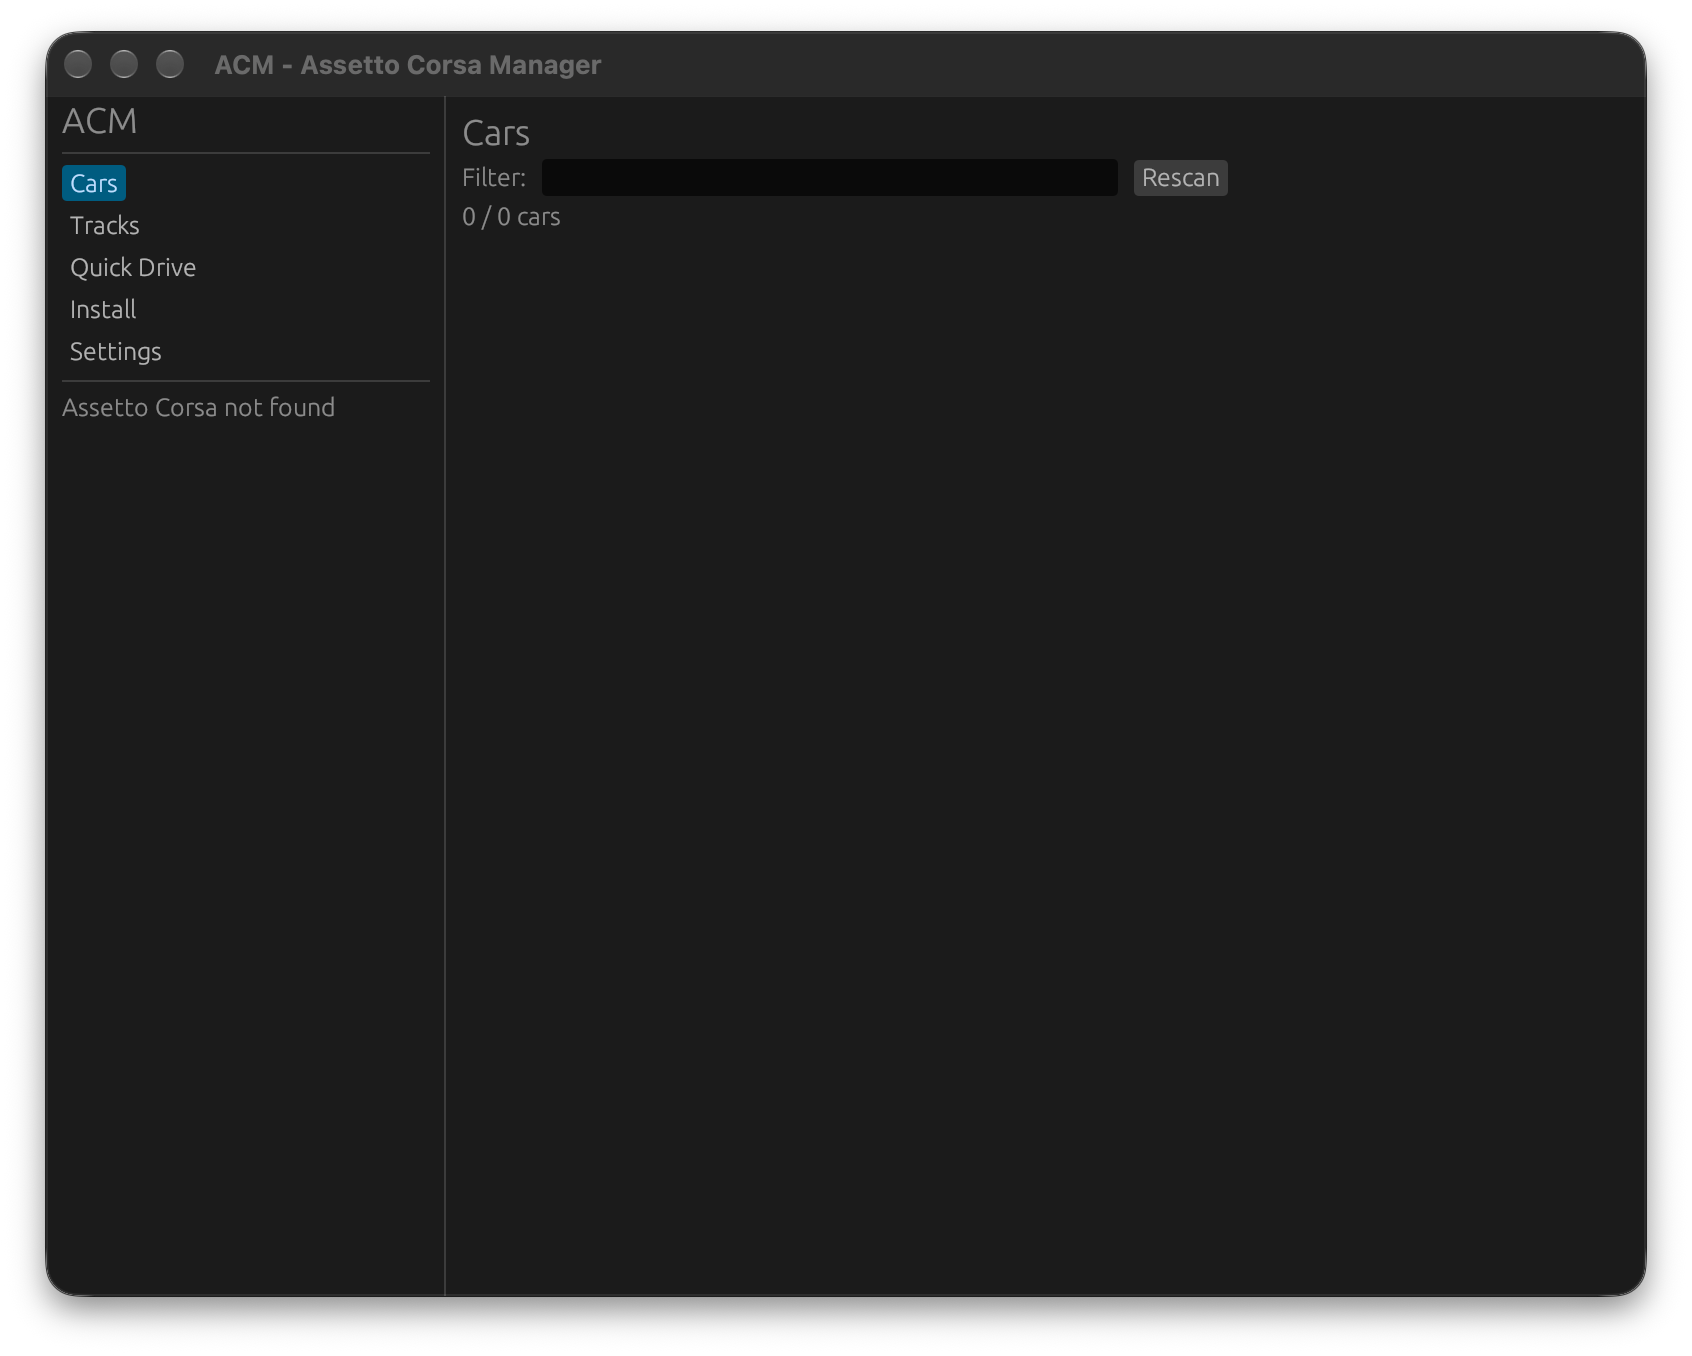
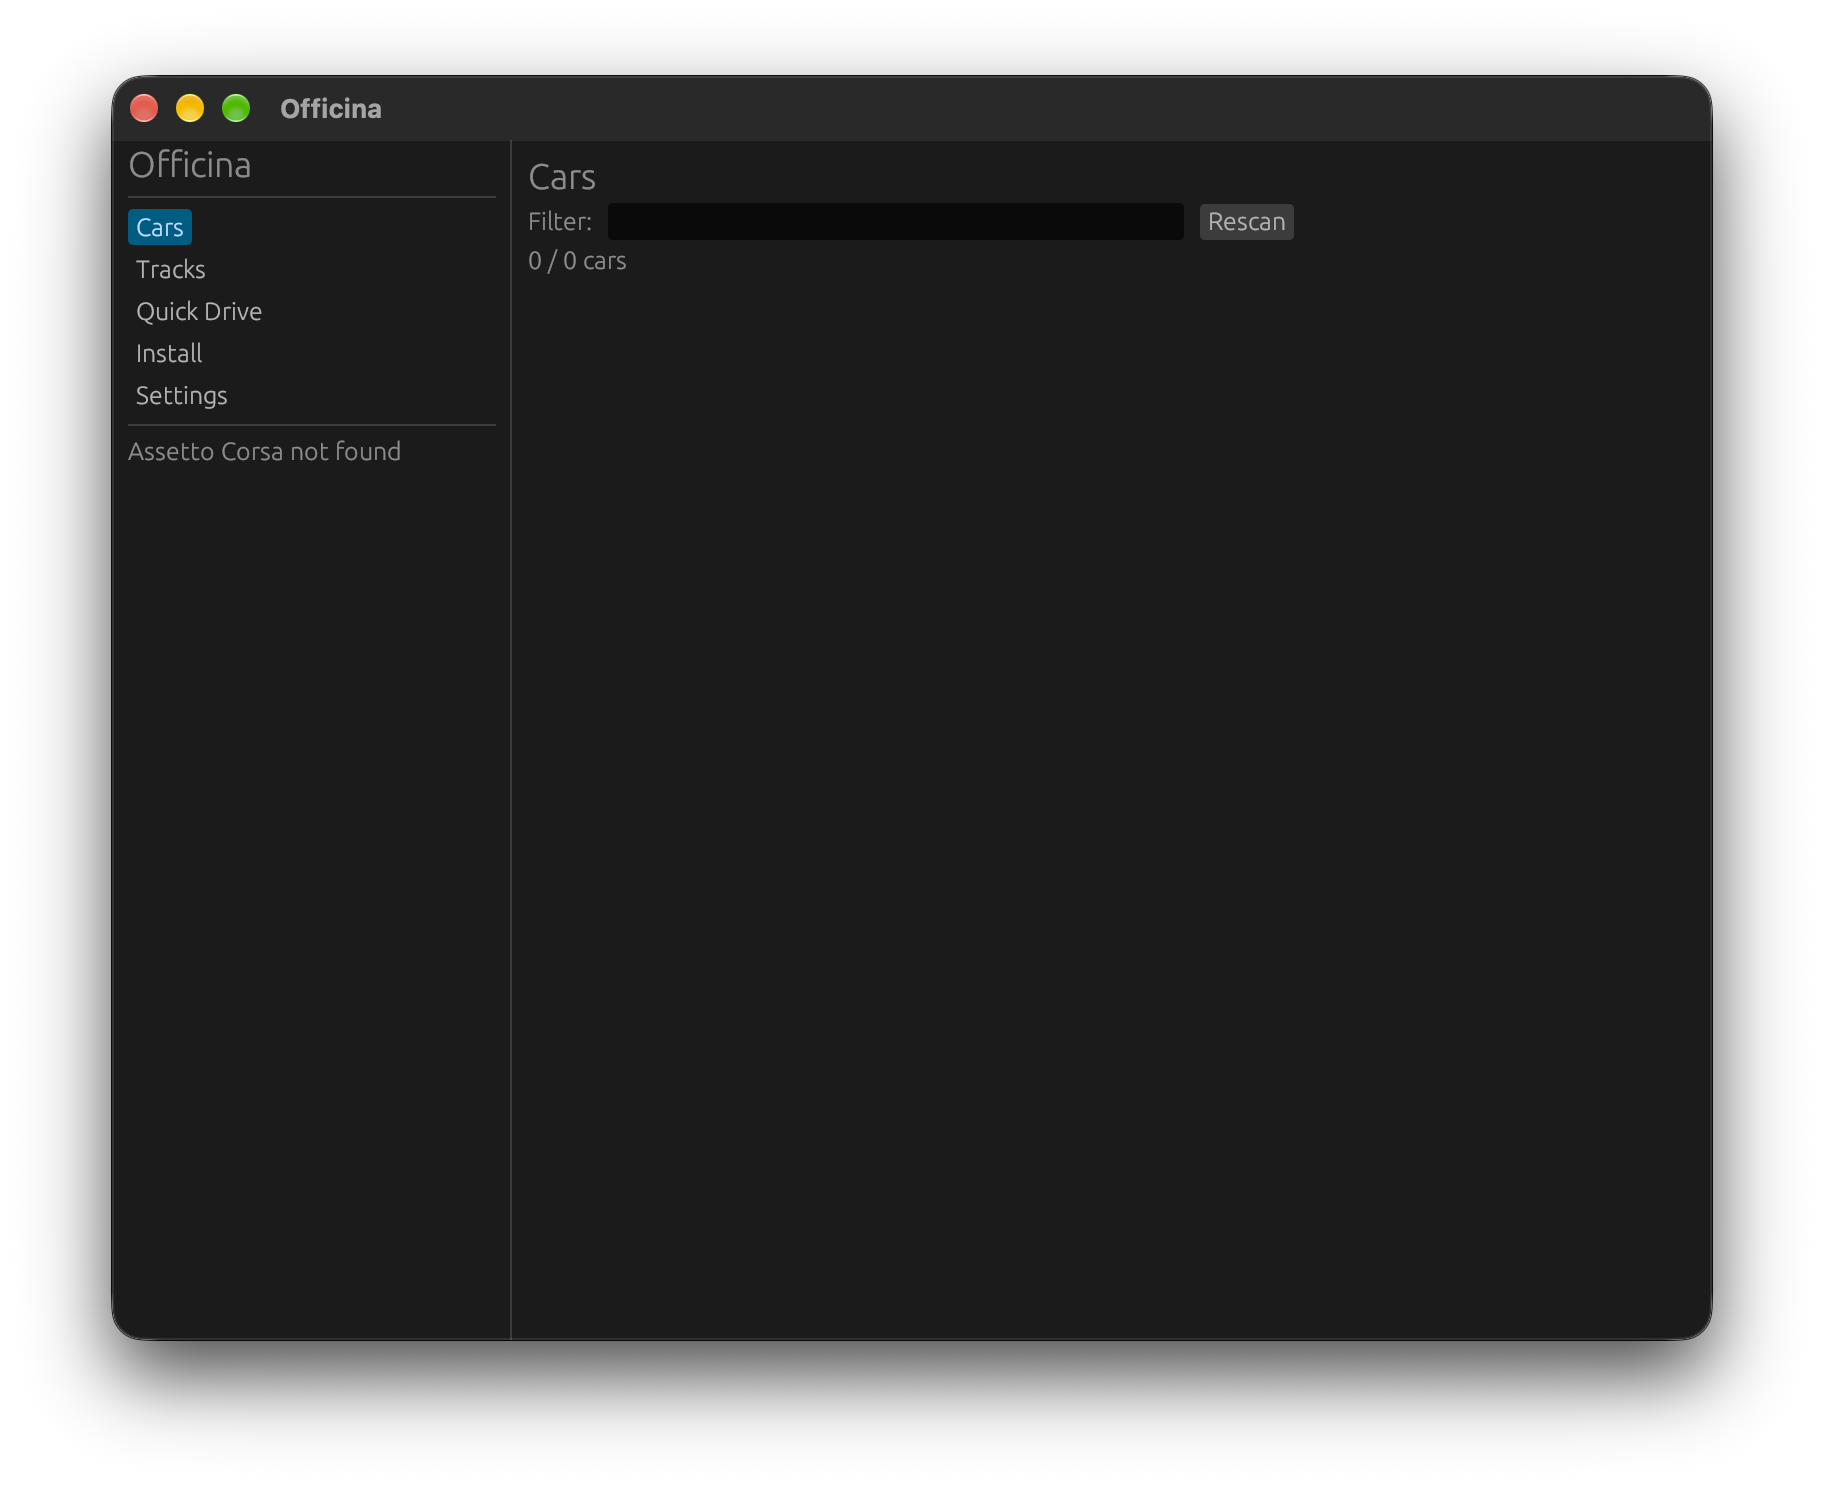
Rename app to Officina
Rename from ACM (Assetto Corsa Mod Manager) to Officina across crates,
binary, CLI command, window title, config/cache paths, and README.
Refresh screenshot to reflect new name.

Changed region(s): [[0.0, 0.0, 0.9835, 0.9912], [0.6454, 0.0929, 0.7376, 0.1858], [0.2766, 0.0929, 0.3381, 0.1858]]

diff --git a/crates/officina-app/src/state.rs b/crates/officina-app/src/state.rs
@@ -1,7 +1,7 @@
 use std::path::PathBuf;
 use std::sync::mpsc;
 
-use ac_core::{content, install, settings::Settings};
+use officina_core::{content, install, settings::Settings};
 
 #[derive(Debug, Clone)]
 pub enum AppMsg {
@@ -119,12 +119,12 @@ impl AppState {
             s.qd_ambient = qd.conditions.ambient_c;
             s.qd_weather = qd.conditions.weather_id.clone();
             s.qd_time_mult = qd.conditions.time_multiplier;
-            if let ac_core::race::Mode::Practice { minutes } = qd.mode {
+            if let officina_core::race::Mode::Practice { minutes } = qd.mode {
                 s.qd_mode = 0;
                 s.qd_minutes = minutes;
-            } else if matches!(qd.mode, ac_core::race::Mode::Hotlap) {
+            } else if matches!(qd.mode, officina_core::race::Mode::Hotlap) {
                 s.qd_mode = 1;
-            } else if let ac_core::race::Mode::Race { laps, .. } = qd.mode {
+            } else if let officina_core::race::Mode::Race { laps, .. } = qd.mode {
                 s.qd_mode = 2;
                 s.qd_laps = laps;
             }

diff --git a/crates/officina-app/src/app.rs b/crates/officina-app/src/app.rs
@@ -39,7 +39,7 @@ impl eframe::App for App {
                             }
                         }
                         if self.state.qd_track.is_empty() {
-                            let entries = ac_core::content::track_entries(&self.state.tracks);
+                            let entries = officina_core::content::track_entries(&self.state.tracks);
                             if let Some(e) = entries.first() {
                                 self.state.qd_track = e.track_id.clone();
                                 self.state.qd_layout = e.layout.layout_id.clone();
@@ -67,7 +67,7 @@ impl eframe::App for App {
         }
 
         egui::SidePanel::left("nav").show(ctx, |ui| {
-            ui.heading("ACM");
+            ui.heading("Officina");
             ui.separator();
             for (label, nav) in [
                 ("Cars", Nav::Cars),

diff --git a/crates/officina-app/src/views/settings.rs b/crates/officina-app/src/views/settings.rs
@@ -21,7 +21,7 @@ pub fn show(state: &mut AppState, ui: &mut Ui) {
         }
     });
     let root = state.settings.ac_root().map(|p| p.display().to_string()).unwrap_or_else(|| "<not found>".into());
-    let compat = state.settings.ac_root().and_then(|r| ac_core::paths::compat_data_dir(&r)).map(|p| p.display().to_string()).unwrap_or_else(|| "<none>".into());
+    let compat = state.settings.ac_root().and_then(|r| officina_core::paths::compat_data_dir(&r)).map(|p| p.display().to_string()).unwrap_or_else(|| "<none>".into());
     ui.label(format!("Resolved AC root: {root}"));
     ui.label(format!("Compatdata: {compat}"));
     if ui.button("Rescan content").clicked() {

diff --git a/crates/officina-app/src/main.rs b/crates/officina-app/src/main.rs
@@ -9,7 +9,7 @@ mod state;
 mod views;
 
 #[derive(Parser)]
-#[command(name = "acm", version, about = "Assetto Corsa mod manager & launcher (Linux)")]
+#[command(name = "officina", version, about = "Officina — mod manager & launcher for Assetto Corsa (Linux)")]
 struct Cli {
     #[command(subcommand)]
     command: Option<Commands>,
@@ -47,7 +47,7 @@ fn main() -> anyhow::Result<()> {
 fn run_gui() -> anyhow::Result<()> {
     let options = eframe::NativeOptions::default();
     eframe::run_native(
-        "ACM - Assetto Corsa Manager",
+        "Officina",
         options,
         Box::new(|cc| {
             egui_extras::install_image_loaders(&cc.egui_ctx);

diff --git a/crates/officina-app/src/views/tracks.rs b/crates/officina-app/src/views/tracks.rs
@@ -1,4 +1,4 @@
-use ac_core::content;
+use officina_core::content;
 use egui::Ui;
 
 use crate::state::AppState;
@@ -13,7 +13,7 @@ pub fn show(state: &mut AppState, ui: &mut Ui) {
         }
     });
     let filter = state.track_filter.to_lowercase();
-    let entries = ac_core::content::track_entries(&state.tracks);
+    let entries = officina_core::content::track_entries(&state.tracks);
     let filtered: Vec<&content::TrackEntry> = entries
         .iter()
         .filter(|e| filter.is_empty() || e.search_text().contains(&filter))

diff --git a/crates/officina-core/src/settings.rs b/crates/officina-core/src/settings.rs
@@ -1,4 +1,4 @@
-//! Application settings stored as TOML under ~/.config/acm/settings.toml.
+//! Application settings stored as TOML under ~/.config/officina/settings.toml.
 
 use std::fs;
 use std::path::PathBuf;
@@ -32,7 +32,7 @@ fn default_theme() -> String {
 
 impl Settings {
     pub fn path() -> Option<PathBuf> {
-        dirs::config_dir().map(|d| d.join("acm").join("settings.toml"))
+        dirs::config_dir().map(|d| d.join("officina").join("settings.toml"))
     }
 
     pub fn load() -> Self {

diff --git a/crates/officina-core/src/paths.rs b/crates/officina-core/src/paths.rs
@@ -80,7 +80,7 @@ pub fn steam_sdl_lib_dirs() -> Vec<PathBuf> {
     return Vec::new();
     #[cfg(not(windows))]
     {
-        let Some(stage) = dirs::cache_dir().map(|d| d.join("acm").join("steam-sdl")) else {
+        let Some(stage) = dirs::cache_dir().map(|d| d.join("officina").join("steam-sdl")) else {
             return Vec::new();
         };
         let mut out = Vec::new();

diff --git a/crates/officina-app/src/views/quick_drive.rs b/crates/officina-app/src/views/quick_drive.rs
@@ -1,8 +1,8 @@
 use egui::Ui;
 
-use ac_core::content;
-use ac_core::launch::{self, LaunchOptions};
-use ac_core::race::{self, Conditions, Mode, QuickDrive};
+use officina_core::content;
+use officina_core::launch::{self, LaunchOptions};
+use officina_core::race::{self, Conditions, Mode, QuickDrive};
 
 use crate::state::AppState;
 

diff --git a/crates/officina-app/src/cli.rs b/crates/officina-app/src/cli.rs
@@ -1,6 +1,6 @@
 use std::path::PathBuf;
 
-use ac_core::{content, install, launch, paths, settings::Settings};
+use officina_core::{content, install, launch, paths, settings::Settings};
 use anyhow::{Context, Result};
 
 pub fn where_cmd() -> Result<()> {

diff --git a/crates/officina-app/src/views/cars.rs b/crates/officina-app/src/views/cars.rs
@@ -1,4 +1,4 @@
-use ac_core::content;
+use officina_core::content;
 use egui::Ui;
 
 use crate::state::AppState;
